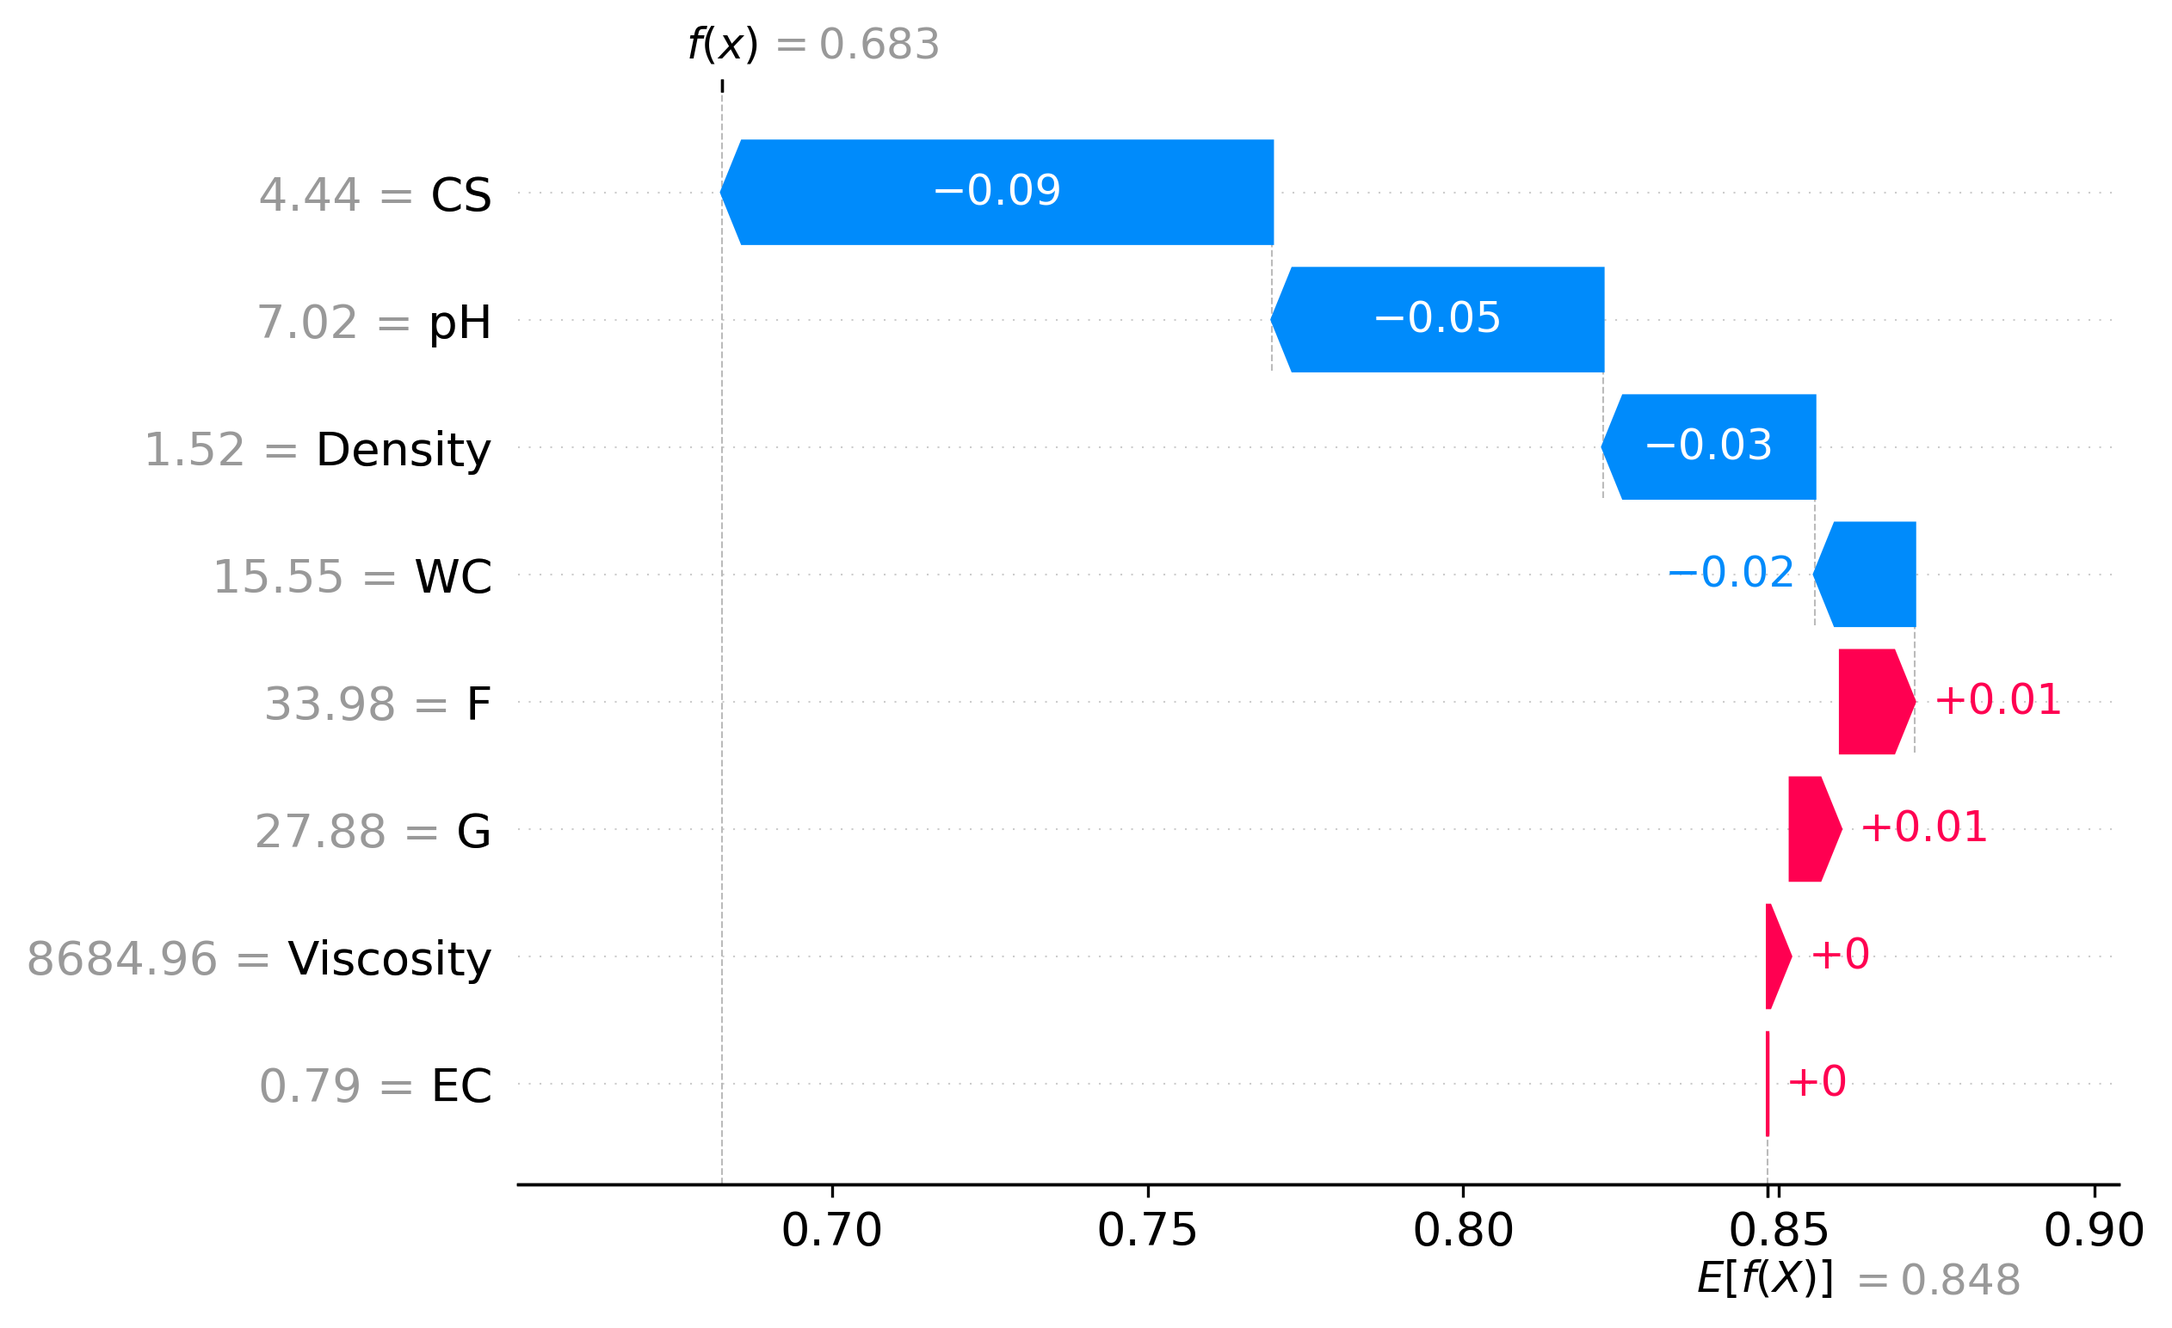
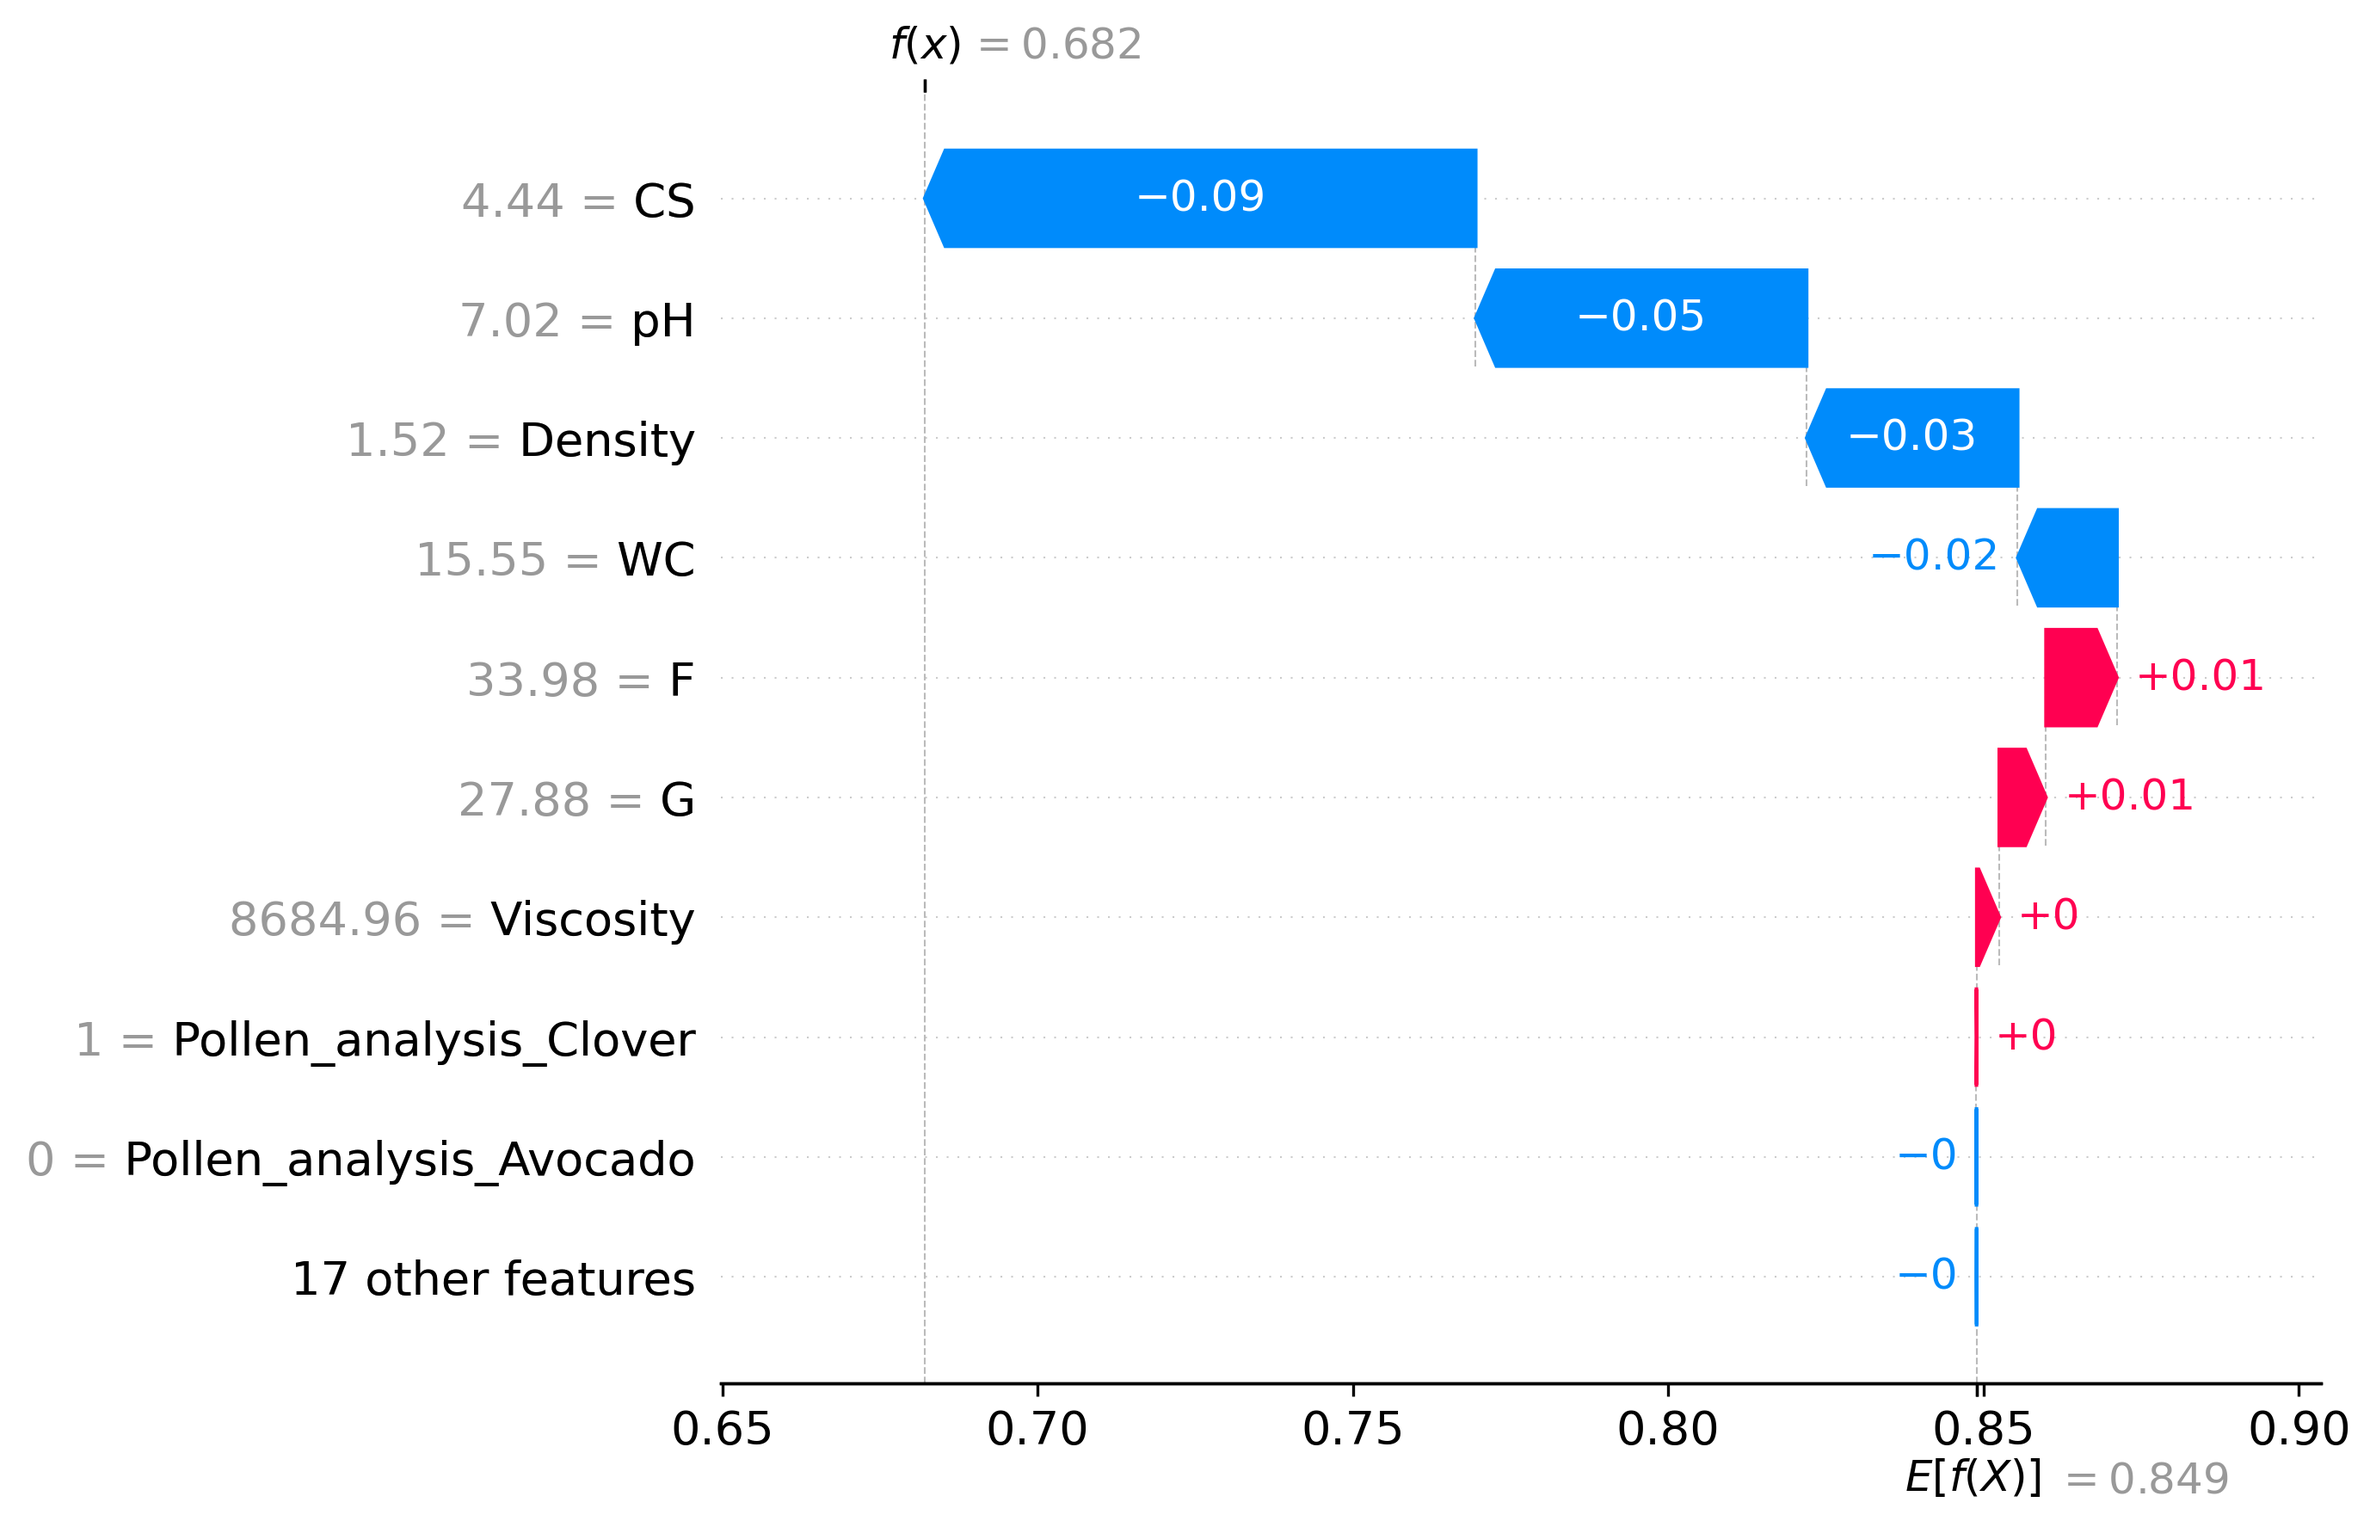
Add new plots and update readme

diff --git a/users/kczap/README.md b/users/kczap/README.md
@@ -31,7 +31,6 @@ Ocenia czystość miodu na podstawie jego właściwości.
 
 ### Projekt obejmuje 
   * **XGBoost Regressor** do predykcji ciągłej wartości Purity
-  * **XGBoost Classifier** do klasyfikacji Purity na klasy 0/1/2
   * **SHAP** do interpretacji modelu
   * **Optuna** do optymalizacji hiperparametrów
   * **LogisticRegression** do porówniania z XGBoost
@@ -43,23 +42,6 @@ Ocenia czystość miodu na podstawie jego właściwości.
 2. Final Model MSE: 0.00047379835210978067 (Optuna)
 
 * Model regresyjny osiąga bardzo wysoką dokładność  (MSE ≈ 0.00048)
-
-
-### XGBoost Classifier
-
-Accuracy: 98.15%
-
-              precision    recall  f1-score   support
-
-           0       0.98      0.99      0.99     27779
-           1       0.99      0.97      0.98     23288
-           2       0.98      0.99      0.98     30741
-
-    accuracy                           0.98     81808
-    macro avg       0.98      0.98      0.98     81808
-    weighted avg       0.98      0.98      0.98     81808
-
-
 
 ### LogisticRegression
 
